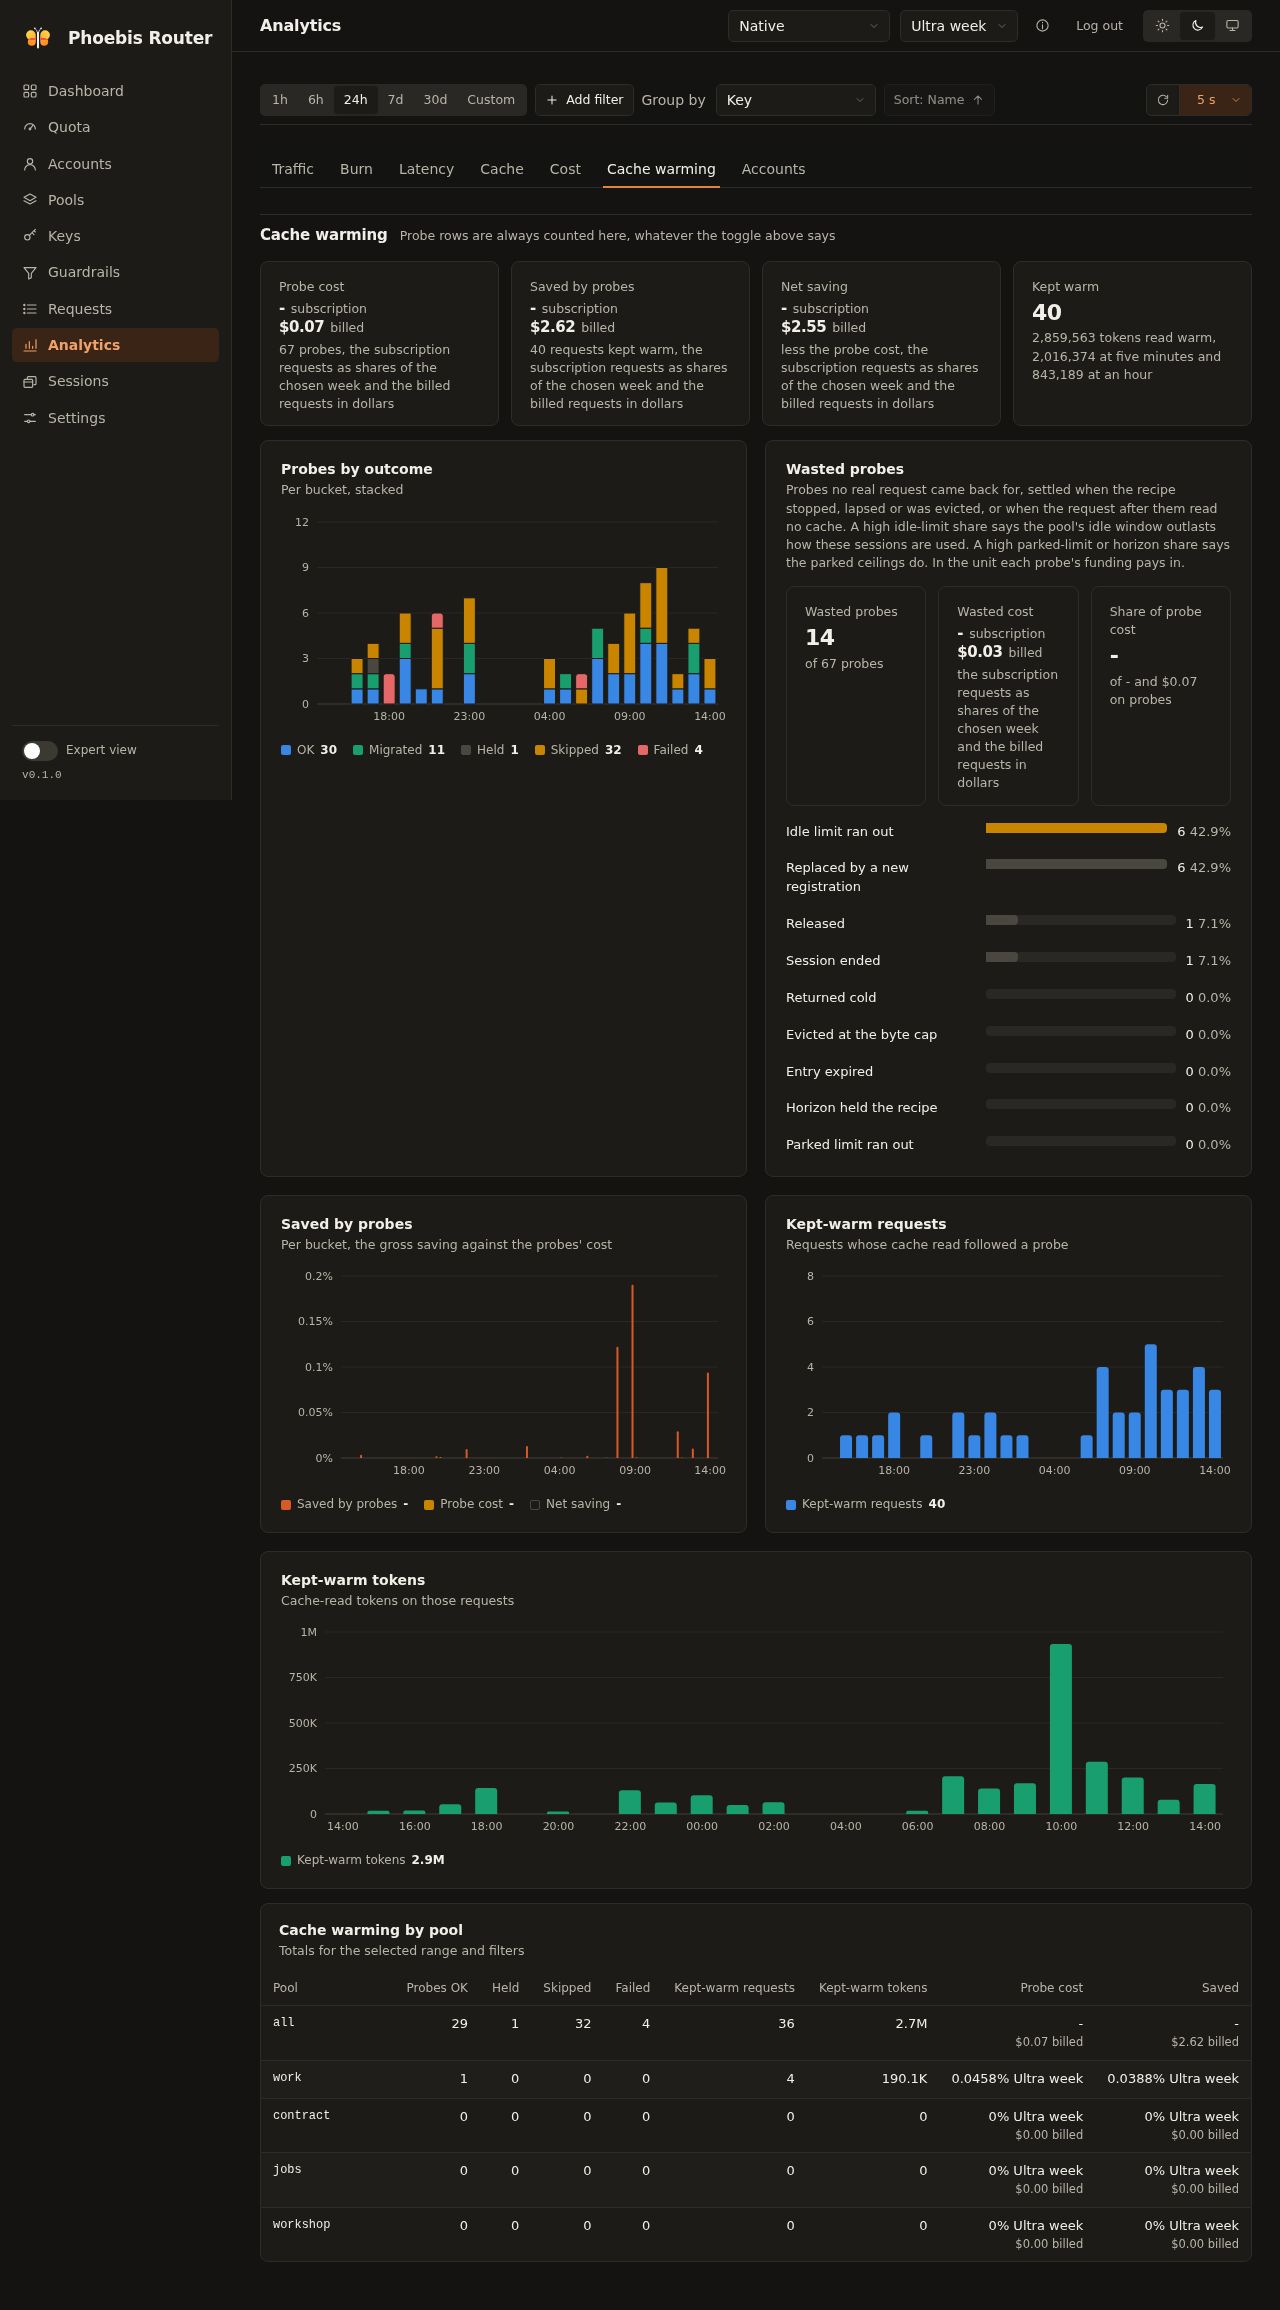
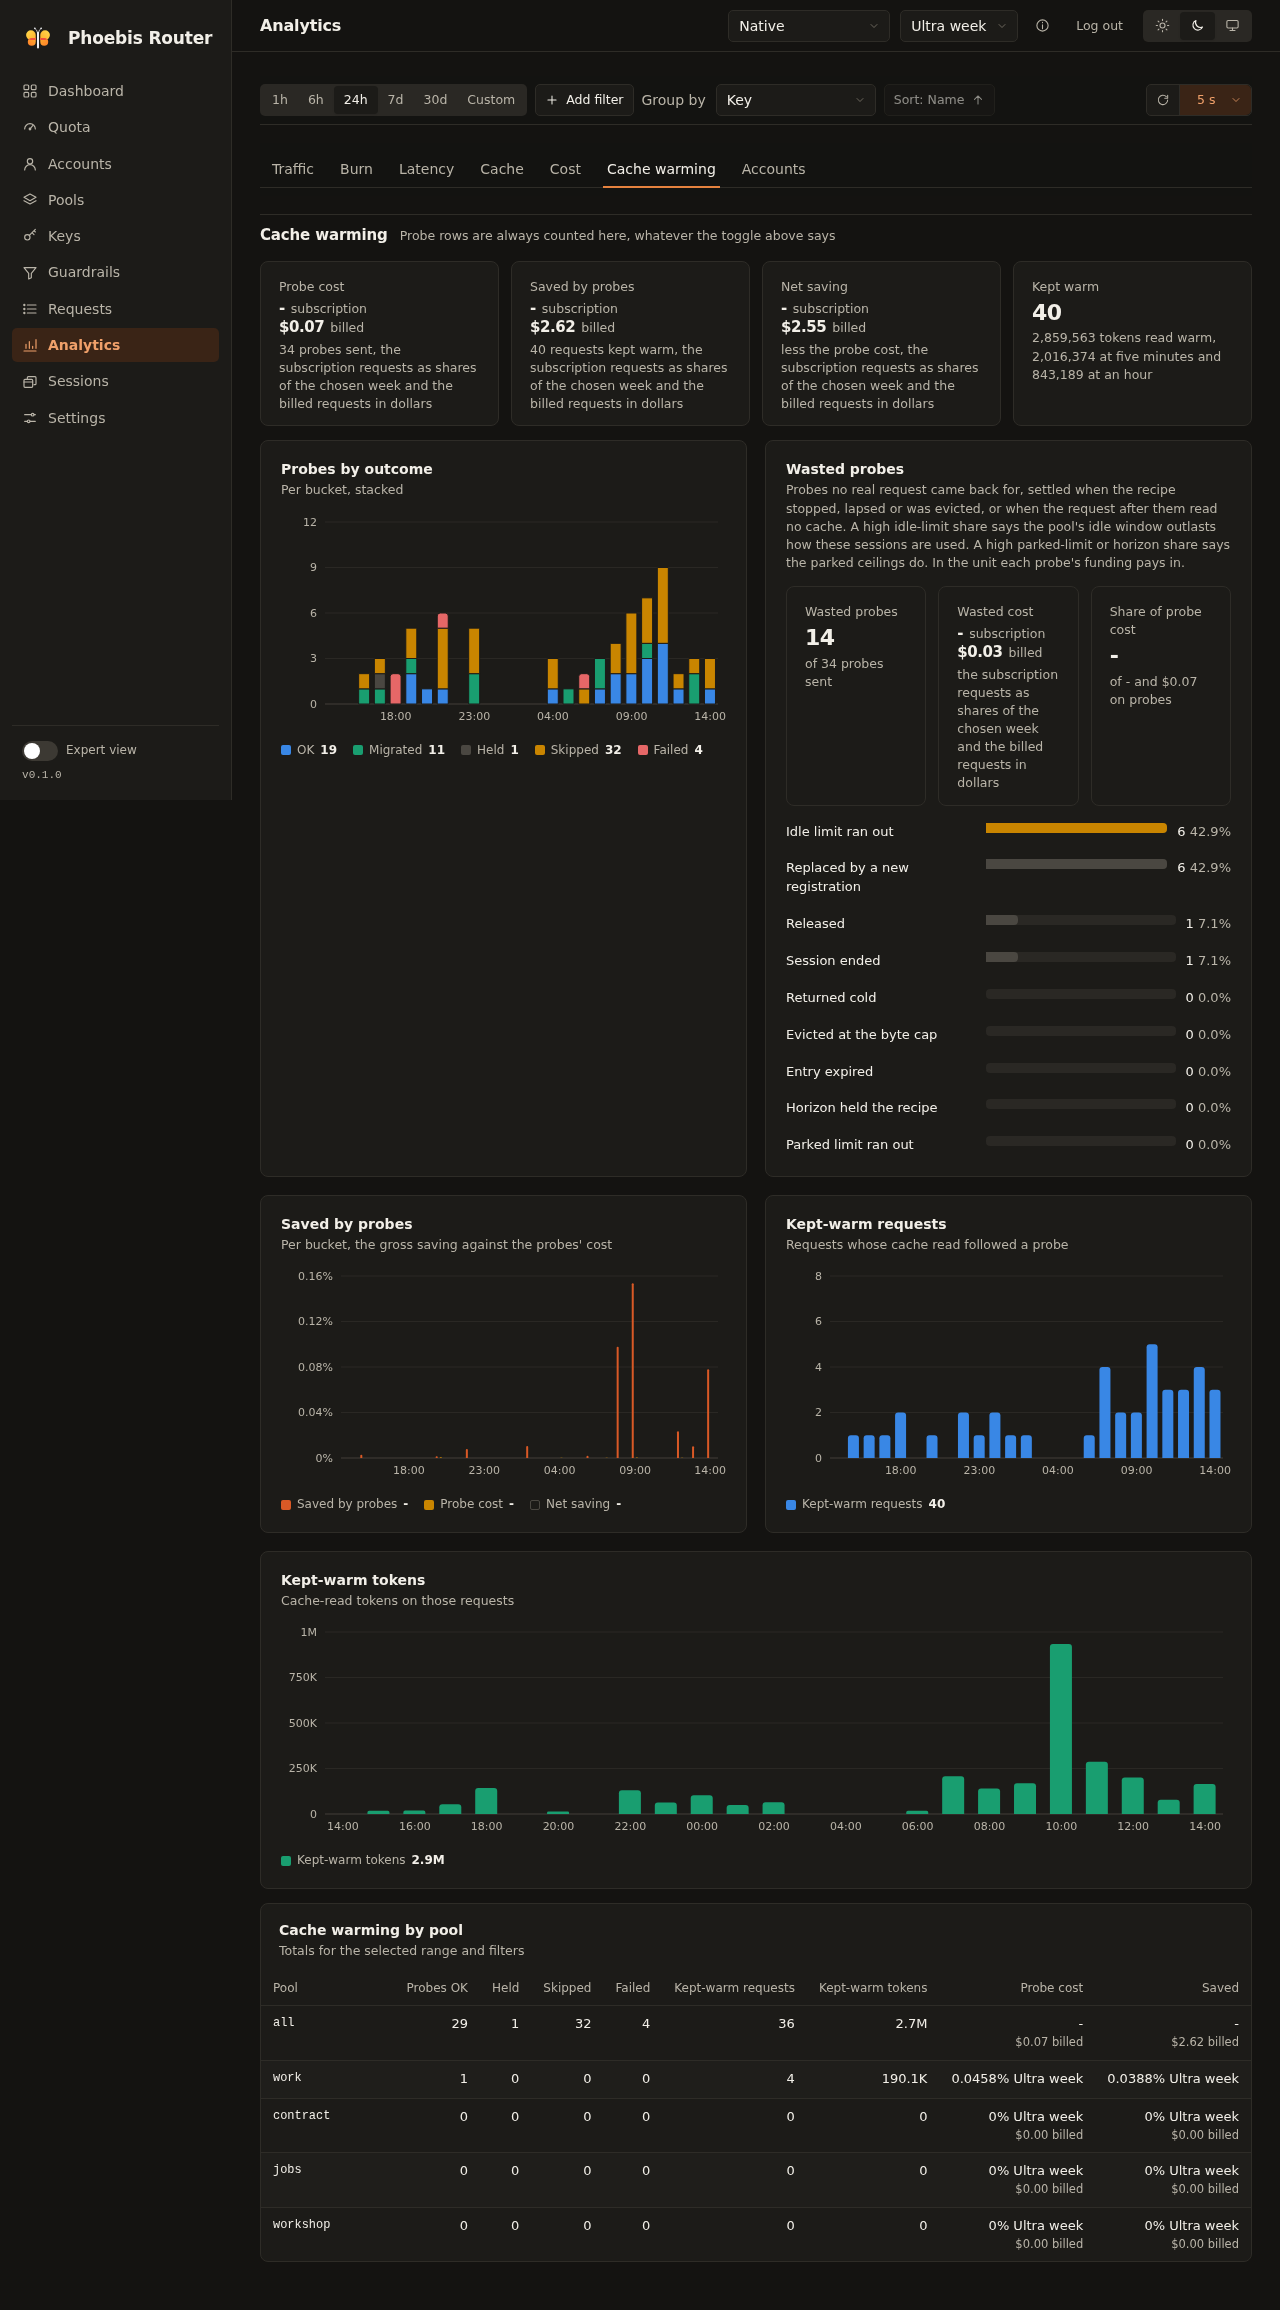
Count a migrated probe once on the Dashboard and Cache warming
The route counts a migrated probe once in ok and once in migrated. The
Dashboard summed all five outcomes into its total and printed the
route's ok as OK, and Probes by outcome stacked the five series, so a
migrated probe counted twice in each. probeParts draws OK as ok less
migrated, floored at zero for a bucket whose mark landed apart from its
request row, and the engine's line, its probe bar and the chart's bars,
legend and hover read those parts.

The Probe cost and Wasted probes notes counted held and skipped probes
among their probes, though neither sent a request. Both now count the
probes sent through upstreamProbes, ok plus failed.

The mock's Dashboard counts hold the 18 migrated probes inside their ok
of 225, so the engine's line moves from "225 ok (76%) of 295" to
"207 ok (75%) of 277". In the mock pass's story the Cache warming notes
read 34 probes sent where they read 67 probes, and the legend's OK
reads 19 where it read 30. The committed Cache warming pair also takes
the earlier moves of that view: the bars and count axis of "Keep a
width and a fill on the Analytics bars, fit the count ticks" and the
row prices of "Bring the mock's request story and rounds back onto the
router".

diff --git a/web/src/pages/AnalyticsPage.tsx b/web/src/pages/AnalyticsPage.tsx
@@ -24,7 +24,7 @@ import { SectionBar } from '@/components/SectionBar';
 import { SortControl } from '@/components/SortControl';
 import { accountHref, addressWindow, ANALYTICS_CODEC, analyticsKeysOf, sortDirOf, type AnalyticsAddress, type SortDir } from '@/lib/address';
 import { ALLOWANCE_WEEKS, allowanceRows, allowanceSpan, fleetFigures, resetInstant, weeklyKeys, weeklyResetsKey, type AllowanceFigure } from '@/lib/allowance';
-import { CONVERSATION_CLASSES, NATIVE_SUBSET, UNIT_SUBSET, analyticsPatch, burnColorOrder, costHeadOf, dollarsOf, equivalentOrDash, errorRateOf, failureHead, figuredGroups, foldBurn, heldBars, heldHover, heldSpan, isolatedSlots, keptWarmNote, keptWarmTokens, lastBucketPartial, moveLabel, nativeCellOf, nativeFiguresOf, netSaving, niceAxisTop, oneAccountGroupOf, ownShareHint, peakLines, placementCells, placementRungLabel, readBurn, scalePoints, sentences, sidesLine, sidesOf, sizedAccounts, slotIndex, slotUnpriced, UNPRICED_TITLE, unpricedNote, upstreamProbes, windowLines, type BurnFigure, type BurnLine, type BurnLineUnit, type BurnRow, type CostFigure, type DollarPosition, type WeekReading } from '@/lib/analytics';
+import { CONVERSATION_CLASSES, NATIVE_SUBSET, UNIT_SUBSET, analyticsPatch, burnColorOrder, costHeadOf, dollarsOf, equivalentOrDash, errorRateOf, failureHead, figuredGroups, foldBurn, heldBars, heldHover, heldSpan, isolatedSlots, keptWarmNote, keptWarmTokens, lastBucketPartial, moveLabel, nativeCellOf, nativeFiguresOf, netSaving, niceAxisTop, oneAccountGroupOf, ownShareHint, peakLines, placementCells, placementRungLabel, probeParts, readBurn, scalePoints, sentences, sidesLine, sidesOf, sizedAccounts, slotIndex, slotUnpriced, UNPRICED_TITLE, unpricedNote, upstreamProbes, windowLines, type BurnFigure, type BurnLine, type BurnLineUnit, type BurnRow, type CostFigure, type DollarPosition, type WeekReading } from '@/lib/analytics';
 import { bucketSizeFor } from '@/lib/buckets';
 import { CACHE_MISS_REASONS, WASTED_PROBE_LABEL, WASTED_PROBE_REASONS, missLabel, missReasonOrder, missShort } from '@/lib/cache';
 import { clock } from '@/lib/clock';
@@ -97,7 +97,6 @@ const rateCell = (rate: number | null): ReactNode => (rate === null ? <span clas
 const inputOf = (g: AnalyticsGroup) => g.tokens.uncachedInput + g.tokens.cacheRead + g.tokens.cacheWrite5m + g.tokens.cacheWrite1h;
 const hitRatioOf = (g: AnalyticsGroup) => (g.cacheHits + g.cacheMisses + g.uncached ? g.cacheHits / (g.cacheHits + g.cacheMisses + g.uncached) : null);
 const cachedShareOf = (g: AnalyticsGroup) => (inputOf(g) ? g.tokens.cacheRead / inputOf(g) : null);
-const probesOf = (g: AnalyticsGroup) => g.probes.ok + g.probes.held + g.probes.skipped + g.probes.failed;
 const usdOrDash = (v: number | null) => (v === null ? '-' : fmtUsd(v));
 /** A figure per counted unit, scaled, and null where the figure or the count is unknown or the count is not positive. */
 const per = (v: number | null, count: number | null, scale: number) => (v === null || count === null || !(count > 0) ? null : (v / count) * scale);
@@ -513,6 +512,7 @@ export function AnalyticsPage() {
   const latest = useMemo(() => latestGenerations(rows), [rows]);
   const points = useMemo(() => (stale ? [] : sessionId === null ? (series.data ?? []) : foldRequests(kept, rangeBucketMs, fromIso, toIso, groupBy, { agentGroups }, latest)), [stale, sessionId, series.data, kept, rangeBucketMs, fromIso, toIso, groupBy, agentGroups, latest]);
   const buckets = useMemo(() => bucketsOf(points), [points]);
+  const probeBuckets = useMemo(() => buckets.map((b) => ({ ...b, probes: probeParts(b.probes) })), [buckets]);
   // The route chooses the bucket width; reading it back off two points keeps the ticks honest when that
   // choice differs from what the range rule would have picked.
   const bucketMs = buckets.length > 1 ? buckets[1].at - buckets[0].at : rangeBucketMs;
@@ -536,6 +536,7 @@ export function AnalyticsPage() {
   // A session fold has no warming facts, so those figures read unavailable rather than zero.
   const { keptWarm } = totals;
   const probesUnmeasured = totals.fromRequests === true;
+  const probeTotals = probeParts(totals.probes);
   // The cost-bearing sections' rows under the position: the funded query's under a dollar side, the page's own under
   // the whole, and in a session view the rows folded by who paid for them.
   const costSeriesAnswer = costSeries.current;
@@ -619,7 +620,7 @@ export function AnalyticsPage() {
   const billedBreakdownAnswer = billedBreakdown.current;
   const billedTotals = useMemo(() => (nativeWarming && billedBreakdownAnswer !== null ? sumGroups(billedBreakdownAnswer) : null), [nativeWarming, billedBreakdownAnswer]);
   const warmingTile = (lead: string, sides: ReturnType<typeof probeSidesOf>, usd: number) => warmingTileOf(unit, costTotals, figureLoading, sessionId !== null, reading, lead, sides, usd);
-  const probeTile = warmingTile(`${fmtInt(probesOf(costTotals))} probes`, probeSidesOf(costTotals, billedTotals, 'cost'), costTotals.probeCostUsd);
+  const probeTile = warmingTile(`${fmtInt(upstreamProbes(costTotals))} probes sent`, probeSidesOf(costTotals, billedTotals, 'cost'), costTotals.probeCostUsd);
   const savingTile = warmingTile(keptWarmRequests(costTotals), savingSidesOf(costTotals, billedTotals, 'gross'), costTotals.savingUsd);
   const netTile = warmingTile('less the probe cost', savingSidesOf(costTotals, billedTotals, 'net'), netSaving(costTotals.savingUsd, costTotals.probeCostUsd));
   const warmingPoints = warmingSeries.current ?? NO_POINTS;
@@ -1049,8 +1050,8 @@ export function AnalyticsPage() {
               <Tile label="Kept warm" value={loading ? null : keptWarm === null ? '-' : fmtInt(keptWarm.requests)} note={keptWarm === null ? UNAVAILABLE_NOTE : keptWarmNote(keptWarm)} />
             </div>
             <div className="grid-2 warming-grid">
-              <ChartCard title="Probes by outcome" subtitle="Per bucket, stacked" loading={loading} legend={PROBE_SERIES.map((s) => ({ color: ink.series[s.slot], label: s.label, title: s.hint, value: probesUnmeasured ? '-' : fmtInt(totals.probes[s.key]) }))}>
-                <BarChart data={buckets} margin={CHART_MARGIN} barCategoryGap={BAR_GAP}>
+              <ChartCard title="Probes by outcome" subtitle="Per bucket, stacked" loading={loading} legend={PROBE_SERIES.map((s) => ({ color: ink.series[s.slot], label: s.label, title: s.hint, value: probesUnmeasured ? '-' : fmtInt(probeTotals[s.key]) }))}>
+                <BarChart data={probeBuckets} margin={CHART_MARGIN} barCategoryGap={BAR_GAP}>
                   <CartesianGrid vertical={false} stroke={ink.grid} />
                   <XAxis {...axis} />
                   <YAxis {...COUNT_AXIS} />
@@ -1070,7 +1071,7 @@ export function AnalyticsPage() {
                 ) : probesUnmeasured ? (
                   <p className="muted">{WARMING_UNAVAILABLE}</p>
                 ) : (
-                  <WastedProbes group={costTotals} probes={probesOf(costTotals)} unit={unit} billed={billedTotals} reading={reading} />
+                  <WastedProbes group={costTotals} probes={upstreamProbes(costTotals)} unit={unit} billed={billedTotals} reading={reading} />
                 )}
               </Card>
 
@@ -1545,7 +1546,7 @@ function WastedProbes({ billed, group, probes, reading, unit }: { billed: Analyt
   return (
     <>
       <div className="tiles-row tiles-row--panel">
-        <Tile label="Wasted probes" value={fmtInt(group.wastedProbes)} note={`of ${fmtInt(probes)} probes`} />
+        <Tile label="Wasted probes" value={fmtInt(group.wastedProbes)} note={`of ${fmtInt(probes)} probes sent`} />
         <Tile label="Wasted cost" value={tiles.cost.value} note={tiles.cost.note} />
         <Tile label="Share of probe cost" value={tiles.share.value} note={tiles.share.note} />
       </div>

diff --git a/web/src/lib/analytics.ts b/web/src/lib/analytics.ts
@@ -1,5 +1,5 @@
 import type { Api } from '@/api/client';
-import type { Account, AccountRollup, AnalyticsGroup, AnalyticsQuery, BurnGroup, BurnPoint, BurnUnit, FundedSum, HeldPoint, PinMigrationReason, PinReleaseReason, Placement, PlacementRow, Reconciliation, RewritesAnswer, SubscriptionCosts, WindowSample } from '@/api/types';
+import type { Account, AccountRollup, AnalyticsGroup, AnalyticsQuery, BurnGroup, BurnPoint, BurnUnit, FundedSum, HeldPoint, KeepaliveOverview, PinMigrationReason, PinReleaseReason, Placement, PlacementRow, Reconciliation, RewritesAnswer, SubscriptionCosts, WindowSample } from '@/api/types';
 import type { AnalyticsAddress } from '@/lib/address';
 import { MODEL_WEEK_TIERS, tierCapacity, type CostWindow } from '@/lib/costs';
 import { has, lookup } from '@/lib/counts';
@@ -319,11 +319,18 @@ export const planRowsRequired = (g: AnalyticsGroup): boolean => (g.planRequests 
  */
 export const errorRateOf = (g: Pick<AnalyticsGroup, 'requests' | 'succeeded'>): number | null => (g.requests > 0 ? (g.requests - g.succeeded) / g.requests : null);
 /**
- * The answered and the failed probes, the count a side's probe cost latches on. The wire's `failed` count also holds
- * the exhausted and rejected probes the relay refuses itself. A held or skipped probe never ran, so a group whose
- * probes were all held or skipped spent nothing on probes and its saving stands.
+ * The answered and the failed probes, the count a side's probe cost latches on and the Cache warming notes print as
+ * the probes sent. The wire's `failed` count also holds the exhausted and rejected probes the relay refuses itself. A
+ * held or skipped probe never ran, so a group whose probes were all held or skipped spent nothing on probes and its
+ * saving stands.
  */
 export const upstreamProbes = (g: Pick<AnalyticsGroup, 'probes'>): number => g.probes.ok + g.probes.failed;
+/**
+ * The five drawn probe counts by the keys of `PROBE_SERIES`. The route counts a migrated probe in `ok` and in
+ * `migrated`, so the OK part is `ok` less `migrated`, floored at zero for a bucket whose mark landed apart from its
+ * request row.
+ */
+export const probeParts = <T extends KeepaliveOverview['probes24h']>(c: T): T => ({ ...c, ok: Math.max(0, c.ok - c.migrated) });
 /**
  * The named account's whole: the position's totals with its shares summed over the groups the route answered them on.
  */

diff --git a/web/src/pages/DashboardPage.tsx b/web/src/pages/DashboardPage.tsx
@@ -17,7 +17,7 @@ import { WindowTriple } from '@/components/ui/QuotaBars';
 import { SpeedChip } from '@/components/ui/SpeedChip';
 import { sumTileOf } from '@/components/ui/Tile';
 import { accountHref, requestHref } from '@/lib/address';
-import { dollarsUnder, equivalentOrDash, nativeSidesOf, type WeekReading } from '@/lib/analytics';
+import { dollarsUnder, equivalentOrDash, nativeSidesOf, probeParts, type WeekReading } from '@/lib/analytics';
 import { groupInto } from '@/lib/counts';
 import { fmtAbsolute, fmtCompact, fmtInt, fmtMiB, fmtMs, fmtPct, fmtRelative, fmtTime, fmtUsd, shortModel, tokensTotal } from '@/lib/format';
 import { failedFirst, refreshAttention, useAsync, useAttention, useNow, useWeekReading, type Loaded } from '@/lib/hooks';
@@ -464,7 +464,8 @@ function KeepaliveEngine({ busGaps, expired, now, read }: { busGaps: boolean; ex
   if (k === null && !failed) return <Skeleton height={140} />;
   const cap = (limit: { count: number; max: number }, fmt = fmtInt) => `${fmt(limit.count)} of ${fmt(limit.max)}`;
   const probes = k?.probes24h ?? null;
-  const total = probes ? PROBE_SERIES.reduce((n, s) => n + probes[s.key], 0) : 0;
+  const parts = probes ? probeParts(probes) : null;
+  const total = parts ? PROBE_SERIES.reduce((n, s) => n + parts[s.key], 0) : 0;
   const gap = k?.lastBusGapAt ?? null;
   return (
     <section className="sess-summary__engine">
@@ -485,7 +486,7 @@ function KeepaliveEngine({ busGaps, expired, now, read }: { busGaps: boolean; ex
         </div>
       </dl>
       <h3 className="section-title">Cache probes, 24h</h3>
-      <p className="sess-summary__probes num">{probes ? `${fmtInt(probes.ok)} ok (${fmtPct(total ? probes.ok / total : 0)}) of ${fmtInt(total)}` : '-'}</p>
+      <p className="sess-summary__probes num">{parts ? `${fmtInt(parts.ok)} ok (${fmtPct(total ? parts.ok / total : 0)}) of ${fmtInt(total)}` : '-'}</p>
       {probes && <ProbeBar probes={probes} />}
       <p className="sess-summary__line">
         {k ? (

diff --git a/web/src/components/ui/ProbeBar.tsx b/web/src/components/ui/ProbeBar.tsx
@@ -1,12 +1,14 @@
 import type { KeepaliveOverview } from '@/api/types';
 import { PROBE_SERIES } from '@/components/charts/theme';
+import { probeParts } from '@/lib/analytics';
 
 /** The day's probes as one bar, each outcome's segment as wide as its share, its counts on the bar's label. */
 export function ProbeBar({ probes }: { probes: KeepaliveOverview['probes24h'] }) {
+  const parts = probeParts(probes);
   return (
-    <div className="probe-bar" role="img" aria-label={`Probes in the last 24h: ${PROBE_SERIES.map((s) => `${probes[s.key]} ${s.key}`).join(', ')}`}>
+    <div className="probe-bar" role="img" aria-label={`Probes in the last 24h: ${PROBE_SERIES.map((s) => `${parts[s.key]} ${s.key}`).join(', ')}`}>
       {PROBE_SERIES.map((s) => (
-        <span key={s.key} className={`probe-bar__seg probe-bar__seg--${s.key}`} style={{ flex: probes[s.key] }} title={s.hint} />
+        <span key={s.key} className={`probe-bar__seg probe-bar__seg--${s.key}`} style={{ flex: parts[s.key] }} title={s.hint} />
       ))}
     </div>
   );

diff --git a/web/src/mock/operations.ts b/web/src/mock/operations.ts
@@ -1236,7 +1236,8 @@ const ENGINE_SESSIONS = SESSIONS.filter((s, i) => s.companion !== 'none' || (i <
 
 // Router-wide, so every probe counted here belongs to a pool that keeps caches
 // warm, and `jobs` has warming off and contributes none. Hand-set at a busier
-// scale than the logged rows.
+// scale than the logged rows. `ok` holds the 18 migrated probes, since the
+// route counts a migrated probe in `ok` and again in `migrated`.
 const PROBES_24H = { ok: 225, migrated: 18, held: 4, skipped: 45, failed: 3 };
 
 // Each bucket reaches fewer windows than the one before it left unreturned.
